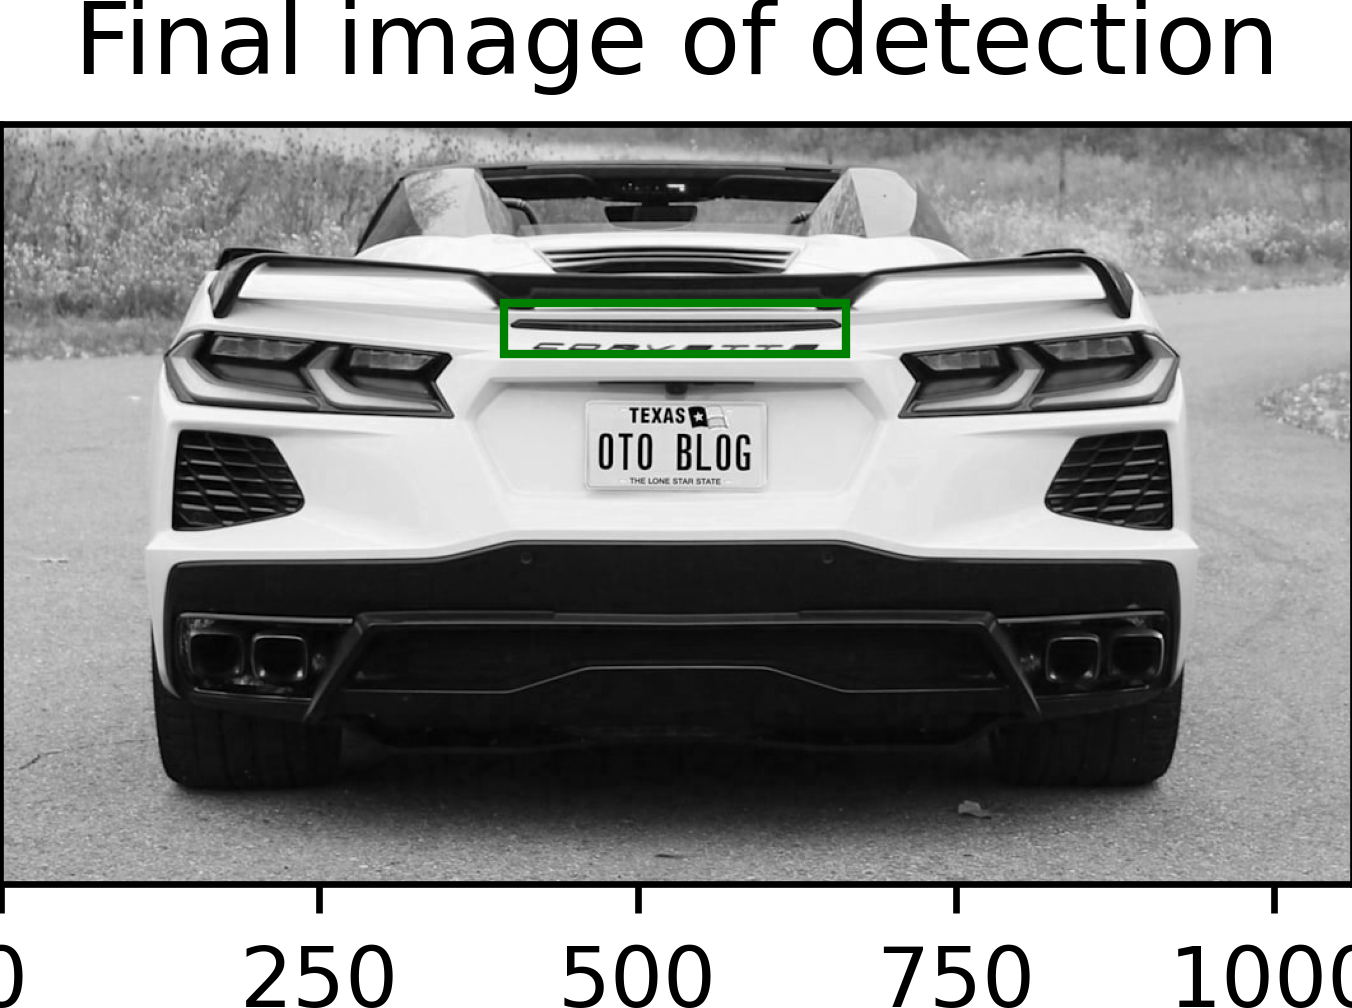
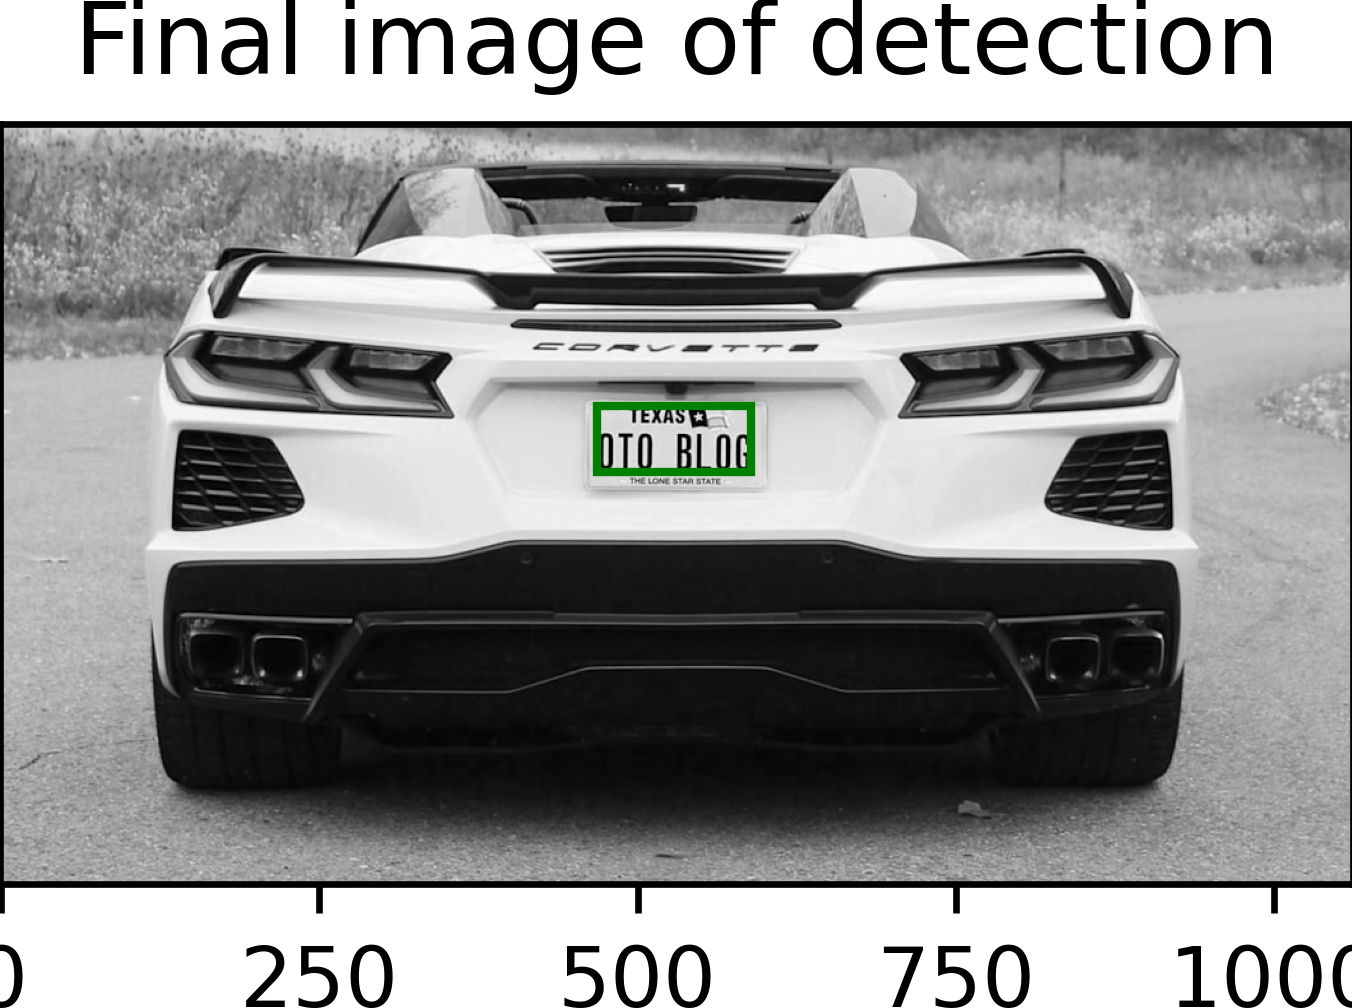
Added to bounding box function
- now checks if box is correct aspect ratio
-also reverted threshold value and number of steps in morph closing since aspect ratio implementation fixes it

Changed region(s): [[0.3417, 0.2768, 0.6524, 0.369], [0.4349, 0.3998, 0.5592, 0.4921]]

diff --git a/CS373LicensePlateDetection.py b/CS373LicensePlateDetection.py
@@ -270,14 +270,15 @@ def computeConnectedComponentLabeling(pixel_array, image_width, image_height):
 
     return output, labels
 
-def createBoundingBox(component_array, component_labels, image_width, image_height):
+def createBoundingBox(component_array, component_labels, image_width, image_height, skipped_labels):
 
     total_pixels = 0
-    component_index = 0
+    component_label = 0
     for x in component_labels.keys():
-        if component_labels[x] > total_pixels:
-            component_index = x
-            total_pixels = component_labels[x]
+        if x not in skipped_labels:
+            if component_labels[x] > total_pixels:
+                component_label = x
+                total_pixels = component_labels[x]
 
     min_x = image_height
     max_x = 0
@@ -285,7 +286,7 @@ def createBoundingBox(component_array, component_labels, image_width, image_heig
     max_y = 0
     for i, x in enumerate(component_array):
         for j, y in enumerate(x):
-            if y == component_index:
+            if y == component_label:
 
                 if i < min_y:
                     min_y = i
@@ -298,6 +299,11 @@ def createBoundingBox(component_array, component_labels, image_width, image_heig
 
                 if j > max_x:
                     max_x = j
+
+    aspect_ratio = (max_x-min_x)/(max_y-min_y)
+    if aspect_ratio > 5 or aspect_ratio < 1.5:
+        skipped_labels = skipped_labels + [component_label]
+        return createBoundingBox(component_array, component_labels, image_width, image_height, skipped_labels)
 
     return [min_x, max_x, min_y, max_y]
 
@@ -312,7 +318,7 @@ def main():
     SHOW_DEBUG_FIGURES = True
 
     # this is the default input image filename
-    input_filename = "numberplate2.png"
+    input_filename = "numberplate6.png"
 
     if command_line_arguments != []:
         input_filename = command_line_arguments[0]
@@ -357,14 +363,14 @@ def main():
     px_array = scaleTo0And255AndQuantize(px_array, image_width, image_height)
 
     # Step 3: Perform thresholding operation
-    threshold_value = 140
+    threshold_value = 150
     px_array = computeThresholdGE(px_array, threshold_value, image_width, image_height)
 
     # Step 4: Perform morphological closing with multiple dilation and erosion steps
-    for test in range(3):
+    for test in range(4):
         px_array = computeDilation8Nbh3x3FlatSE(px_array, image_width, image_height)
 
-    for test in range(3):
+    for test in range(4):
         px_array = computeErosion8Nbh3x3FlatSE(px_array, image_width, image_height)
 
     # Step 5: Finding bounding box
@@ -374,7 +380,8 @@ def main():
     component_array = connectedComponents[0]
     component_labels = connectedComponents[1]
 
-    boxPosition = createBoundingBox(component_array, component_labels, image_width, image_height)
+    skipped_labels = [0]
+    boxPosition = createBoundingBox(component_array, component_labels, image_width, image_height, skipped_labels)
 
     # get x,y min - max values of bounding box
     bbox_min_x = boxPosition[0]
